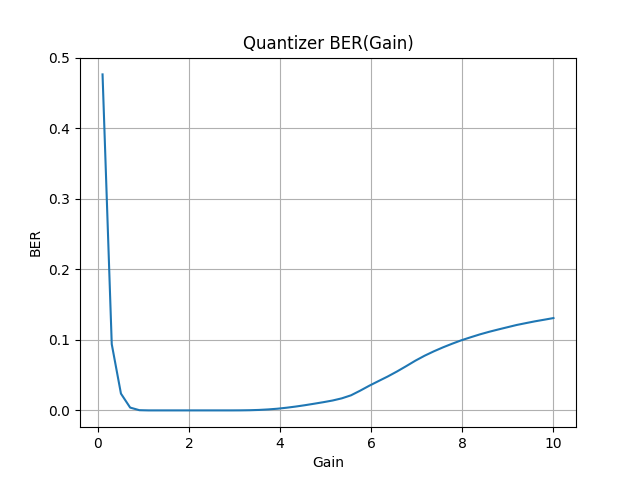
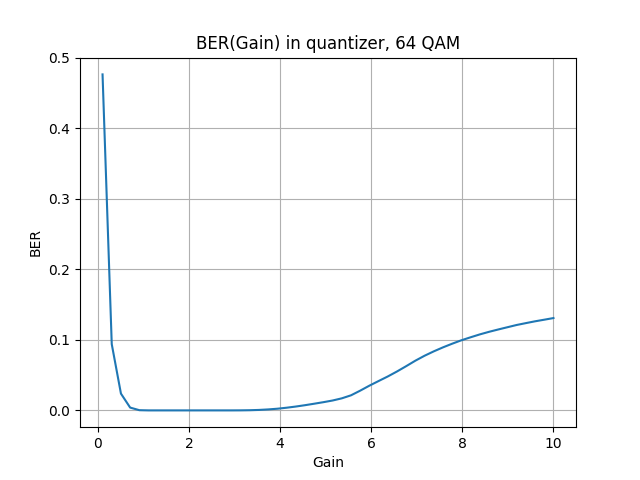
Changed the ADC and the DAC, chose the gain

Changed region(s): [[0.3125, 0.0625, 0.7188, 0.125]]

diff --git a/main.py b/main.py
@@ -4,6 +4,7 @@ import commpy.modulation as mod
 from scipy import signal as sig
 from commpy.channels import awgn
 import channel_funcs as cf
+from tqdm import tqdm
 
 
 def time_syncronization(base_signal, delayed_signal):
@@ -36,6 +37,62 @@ def constellation_normalization(signal, mod_order):
 def normalize_energy(s):
     return s / np.sqrt(np.sum(np.abs(s)**2))
 
+def compare_2_signals(signal_1, signal_2, title):
+    mid = len(signal_1) // 2
+    plt.figure(100)
+    plt.stem(signal_1.real[mid : mid + 100], linefmt='r-', label = 'Initial, real part')
+    plt.stem(signal_2.real[mid : mid + 100], linefmt='g-', label = 'Processed, real part')
+    plt.legend()
+    plt.title(title)
+    plt.grid()
+    plt.show()
+
+    plt.figure(101)
+    plt.stem(signal_1.imag[mid : mid + 100], linefmt='r-', label = 'Initial, imaginary part')
+    plt.stem(signal_2.imag[mid : mid + 100], linefmt='g-', label = 'Processed, imaginary part')
+    plt.legend()
+    plt.title(title)
+    plt.grid()
+    plt.show()
+
+def pulse_shaping_check(shaped_signal, up_signal, ROLLOFF, FILTER_SPAN, SPS, FS, TS):
+    shaped_back_signal = cf.pulse_shaping(
+        shaped_signal,
+        rolloff=ROLLOFF,
+        filter_span=FILTER_SPAN,
+        sps=SPS,
+        Fs=FS * SPS,
+        Ts=TS,
+        normaliztion="L2",
+        plt_en = 1
+    )
+    recovered = time_syncronization(up_signal, shaped_back_signal) 
+    downsampled = cf.downsample(recovered, SPS)
+    recovered = cf.upsample(downsampled, SPS)
+    shaped_energy, recovered_energy = np.sum(np.abs(shaped_signal)** 2), np.sum(np.abs(recovered) ** 2)
+    print(f'Signals energies: {shaped_energy}; {recovered_energy}')
+    nmse = nmse_calc(up_signal, recovered) 
+    
+    print(f'NMSE = {nmse} dB')
+    plt.figure(100)
+    plt.plot(up_signal.real[:100], color  = 'red', label = 'Up signal real part')
+    plt.plot(recovered.real[:100], color = 'green', label = 'Shaped back signal real part')
+    plt.legend()
+    plt.grid()
+    plt.show()
+
+    plt.figure(101)
+    plt.plot(up_signal.imag[:100], color  = 'red', label = 'Up signal imag part')
+    plt.plot(recovered.imag[:100], color = 'green', label = 'Shaped back signal imag part')
+    plt.legend()
+    plt.grid()
+    plt.show()
+
+def recover_signal(initial_signal, processed_signal, SPS):
+    recovered = time_syncronization(initial_signal, processed_signal)
+    downsampled = cf.downsample(recovered, SPS)
+    recovered = cf.upsample(downsampled, SPS)
+    return recovered, downsampled
 
 
 def main():
@@ -78,7 +135,7 @@ def main():
 
 
 
-    ######### 2 Upsampling
+    ######### 2 Upsampling to 4 SPS
     up_signal = cf.upsample(symbol_signal, SPS)
     ### Upsampled signal spectrum check
     cf.spectrum_plot(up_signal, Fs = SPS * FS, title = 'Signal spectrum, 4 SPS', plt_en = 1)
@@ -103,84 +160,68 @@ def main():
     ###
 
     ### TX Pulse shaping block check, NMSE = -67 dB
-    '''shaped_back_signal = cf.pulse_shaping(
-        shaped_signal,
-        rolloff=ROLLOFF,
-        filter_span=FILTER_SPAN,
-        sps=SPS,
-        Fs=FS * SPS,
-        Ts=TS,
-        normaliztion="L2",
-        plt_en = 1
-    )
-    recovered = time_syncronization(up_signal, shaped_back_signal) 
-    downsampled = cf.downsample(recovered, SPS)
-    recovered = cf.upsample(downsampled, SPS)
-    nmse = nmse_calc(up_signal, recovered) 
-    
-    print(f'NMSE = {nmse} dB')
-    plt.figure(100)
-    plt.plot(up_signal.real[:100], color  = 'red', label = 'Up signal real part')
-    plt.plot(recovered.real[:100], color = 'green', label = 'Shaped back signal real part')
-    plt.legend()
-    plt.grid()
-    plt.show()
-
-    plt.figure(101)
-    plt.plot(up_signal.imag[:100], color  = 'red', label = 'Up signal imag part')
-    plt.plot(recovered.imag[:100], color = 'green', label = 'Shaped back signal imag part')
-    plt.legend()
-    plt.grid()
-    plt.show()'''
+    pulse_shaping_check(shaped_signal, up_signal, ROLLOFF, FILTER_SPAN, SPS, FS, TS)
     ###
 
 
 
     ######### DAC with the distortions
-    gains = np.linspace(0.1, 10, 50)
-    bers = np.zeros_like(gains)
+    #gains_dac = np.linspace(0.1, 10, 50)
+    gains_dac = np.arange(2.928, 2.93, 0.01)
+    gains_adc = np.arange(14,15,1)
+    bers = np.zeros_like(gains_adc)
+    nmse_final_arr = np.zeros_like(gains_adc)
     shaped_signal_pure = shaped_signal.copy()
-    for i in range(len(gains)):
+    
+    for i in tqdm(range((len(gains_adc)))):
         #shaped_signal = cf.quantizer(shaped_signal, resolution = 5, gain = gains[i]) ### Add the quantizer
         #shaped_upsampled = cf.upsample(shaped_signal, sps = 10)
-        current_shaped = cf.quantizer(shaped_signal_pure, resolution = 5, gain = gains[i]) 
-    
+        current_shaped = cf.quantizer(shaped_signal_pure, resolution = 5, gain = 2.928) 
+        #current_shaped = shaped_signal_pure
         if np.sum(np.abs(current_shaped)) == 0:
             bers[i] = 0.5
             continue
             
-        shaped_upsampled = cf.upsample(current_shaped, sps = 10)
-
-
+        SPS_2 = 10
+        ### Upsampling to 40 SPS
+        shaped_upsampled = cf.upsample(current_shaped, sps = SPS_2)
+        ###
         ### Shaped signal spectrum check
-        SPS_2 = 40
-        cf.spectrum_plot(shaped_upsampled, Fs = SPS_2 * FS, title = 'Spectrum after the pulse shaping and upsampling, 40 SPS', plt_en = 0)
+        cf.spectrum_plot(shaped_upsampled, Fs = SPS_2* SPS * FS, title = 'Spectrum after the pulse shaping and upsampling, 40 SPS', plt_en = 0)
         ###
         
         ### Add a LPF to shaped_upsampled
-        #shaped_upsampled_filtered = cf.apply_lowpass_filter(shaped_upsampled, FS/2*(1 + ROLLOFF) * 1.5, FS/2*(1 + ROLLOFF) * 2, FS * SPS * 10, 60)
-        shaped_upsampled_filtered = cf.apply_fixed_lpf(shaped_upsampled, FS / 2 * (1 + ROLLOFF) * 1.5, FS * SPS_2)
+        shaped_upsampled_filtered = cf.apply_fixed_lpf(shaped_upsampled, FS / 2 * (1 + ROLLOFF) * 1.5, FS * SPS_2 * SPS)
         #shaped_upsampled_filtered = shaped_upsampled
         ### Shaped upsampled and filtered through LPF signal spectrum check
-        cf.spectrum_plot(shaped_upsampled_filtered, Fs = SPS_2 * FS, title = 'Spectrum after the pulse shaping and upsampling to 40 SPS, then adding a LPF', plt_en = 0)
+        cf.spectrum_plot(shaped_upsampled_filtered, Fs = SPS_2 * SPS * FS, title = 'Spectrum after the pulse shaping and upsampling to 40 SPS, then adding a LPF', plt_en = 0)
         ###
 
 
 
 
         ######## Upconversion
-        passband_signal = cf.upconversion(shaped_upsampled_filtered, Fc = FS * 10, Fs = FS * SPS_2, plt_en = 0)
-
+        passband_signal = cf.upconversion(shaped_upsampled_filtered, Fc = FS * SPS_2, Fs = FS * SPS_2 * SPS, plt_en = 0)
         ######## Downconversion
-        baseband_signal = cf.downconversion(passband_signal, Fc = FS * 10, Fs = FS * SPS_2, plt_en = 0)
+        baseband_signal = cf.downconversion(passband_signal, Fc = FS * SPS_2, Fs = FS * SPS_2 * SPS, plt_en = 0)
 
-        ######### ADC w/o distortions
+
+
+
+        ######### ADC with distortions
         ### Correlation between the shaped_upsampled and shaped_upsampled_filtered
-        recovered = time_syncronization(shaped_upsampled, shaped_upsampled_filtered)
-        downsampled = cf.downsample(recovered, 10)
-        recovered = cf.upsample(downsampled, 10)
+        after_lpf = time_syncronization(shaped_upsampled, baseband_signal)
+        downsampled = cf.downsample(after_lpf, SPS_2)
+        recovered = cf.upsample(downsampled, SPS_2)
 
-        ### Shaped signal and signal after the LPF normalization
+        ### ADC quantizer
+        adc_quantized = cf.quantizer(after_lpf, resolution = 8, gain = gains_adc[i])
+        if np.sum(np.abs(adc_quantized)) == 0:
+            bers[i] = 0.5
+            continue
+        downsampled = cf.downsample(adc_quantized, SPS_2)
+
+        ### Shaped upsampled to 40 SPS signal and signal after the LPF normalization
         shaped_up_energy, recovered_energy = np.sum(np.abs(shaped_upsampled)** 2), np.sum(np.abs(recovered) ** 2)
         print(f'Signals energies: {shaped_up_energy}; {recovered_energy}')
         shaped_upsampled, recovered = normalize_energy(shaped_upsampled), normalize_energy(recovered)
@@ -192,28 +233,15 @@ def main():
         print(f'NMSE = {nmse} dB')
         print(f'NMSE absolute = {nmse_abs}')
 
-        '''mid = len(recovered) // 2
-        plt.figure(100)
-        plt.stem(shaped_upsampled.real[mid : mid + 100], linefmt='r-', label = 'Upsampled signal before the LPF real part')
-        plt.stem(recovered.real[mid : mid + 100],linefmt='g-', label = 'Upsampled signal after the LPF real part')
-        plt.legend()
-        plt.title('Signals 10 SPS')
-        plt.grid()
-        plt.show()
-
-        plt.figure(101)
-        plt.stem(shaped_upsampled.imag[mid : mid + 100], linefmt='r-', label = 'Upsampled signal before the LPF imag part')
-        plt.stem(recovered.imag[mid : mid + 100], linefmt='g-', label = 'Upsampled signal after the LPF imag part')
-        plt.legend()
-        plt.title('Signals 10 SPS')
-        plt.grid()
-        plt.show()'''
+        ### 
+        title = 'Shaped, upsampled to 40 SPS, before LPF signal; Recovered signal on 40 SPS after LPF with time syncro'
+        compare_2_signals(shaped_upsampled, recovered, title)
         ###
+        #########
 
 
 
-
-        ######## Matched filter to the downsampled signal
+        ######## Matched filter to the downsampled to 4 SPS signal
         downsampled_shaped = cf.pulse_shaping(downsampled, ROLLOFF, FILTER_SPAN, SPS, TS, FS * SPS, plt_en = 0)
         
         ### Correlation between the up_signal and downsampled matched filtered
@@ -224,22 +252,8 @@ def main():
         recovered_energy, up_signal_energy = np.sum(np.abs(recovered)** 2), np.sum(np.abs(up_signal)** 2)
         print(f'Signals energies: {recovered_energy}; {up_signal_energy}')
 
-        '''mid = len(recovered) // 2
-        plt.figure(100)
-        plt.stem(up_signal.real[mid : mid + 100], linefmt='r-', label = 'Signal on 4 SPS after initial shaping real part')
-        plt.stem(recovered.real[mid : mid + 100], linefmt='g-', label = 'Signal on 4 SPS after matched filtering real part')
-        plt.legend()
-        plt.title('Signals on 4 SPS')
-        plt.grid()
-        plt.show()
-
-        plt.figure(101)
-        plt.stem(up_signal.imag[mid : mid + 100], linefmt='r-', label = 'Signal on 4 SPS after initial shaping imag part')
-        plt.stem(recovered.imag[mid : mid + 100], linefmt='g-', label = 'Signal on 4 SPS after matched filtering imag part')
-        plt.legend()
-        plt.title('Signals on 4 SPS')
-        plt.grid()
-        plt.show()'''
+        title = 'Initial upsampled on 4 SPS signal; Recovered signal after the matched filtering on 4 SPS with time syncro'
+        compare_2_signals(up_signal, recovered, title)
 
         nmse = nmse_calc(up_signal, recovered)
         print(f'NMSE = {nmse} dB')
@@ -251,6 +265,7 @@ def main():
         final_symbols = constellation_normalization(final_symbols, MOD_ORDER)
         final_symbols_rms, symbol_signal_rms =  rms_calc(final_symbols), rms_calc(symbol_signal) 
         nmse = nmse_calc(symbol_signal, final_symbols)
+        nmse_final_arr[i] = nmse
         print(f'NMSE = {nmse}')
         
 
@@ -264,12 +279,21 @@ def main():
     
     ### Ber (gain)
     plt.figure(1)
-    plt.plot(gains, bers)
+    plt.plot(gains_adc, bers)
     plt.ylabel('BER')
     plt.xlabel('Gain')
-    plt.title('Quantizer BER(Gain)')
+    plt.title(f'BER(Gain) in ADC, {MOD_ORDER} QAM')
     plt.grid()
-    plt.savefig('quantizer_ber_gain.png')
+    #plt.savefig('adc_ber_gain.png')
+    plt.show()
+
+    plt.figure(2)
+    plt.plot(gains_adc, nmse_final_arr)
+    plt.ylabel('Final NMSE between the symbols')
+    plt.xlabel('Gain')
+    plt.title(f'NMSE(Gain) in ADC, {MOD_ORDER} QAM')
+    plt.grid()
+    #plt.savefig('adc_nmse_gain.png')
     plt.show()
     ###
     cf.spectrum_plot(shaped_signal, FS, title="Original baseband signal spectrum")

diff --git a/channel_funcs.py b/channel_funcs.py
@@ -29,6 +29,7 @@ def rc_filter(signal, filter_span, sps, Fs, rolloff, Ts, plt_en = 1, normalizati
     
 def apply_fixed_lpf(signal, cutoff_hz, fs, N=401, plt_en = 0):
     taps = sig.firwin(N, cutoff_hz, window=('kaiser', 14), fs=fs)
+    taps = taps / np.sqrt(np.sum(np.abs(taps)**2))
     if plt_en:
         spectrum_plot(taps, fs, title = 'LPF frequency characteristics', plt_en = plt_en)
     return np.convolve(signal, taps, mode="full")
@@ -139,16 +140,11 @@ def ADC1(signal: np.ndarray, adc_bits: int, dac_bits: int):
     return signal * scaling_factor_adc, scaling_factor_adc
 
 
-def ADC(signal: np.ndarray, adc_bits: int, dac_bits: int):
-    scaling_factor_adc = 2 ** (adc_bits - dac_bits)
-    scaled_signal = signal * scaling_factor_adc
-
-    quantized_signal = np.round(scaled_signal)
-
-    limit = 2 ** (adc_bits - 1)
-    final_signal = np.clip(quantized_signal, -limit, limit - 1)
-
-    return final_signal, scaling_factor_adc
+def ADC(signal: np.ndarray, resolution: int, gain: float):
+    left_border, right_border = int(-(2**resolution) / 2), int(2**resolution / 2 - 1)
+    scaled_signal = signal * gain
+    i_quantized, q_quantized = np.clip(np.round((scaled_signal.real)).astype(np.int32), left_border, right_border), np.clip(np.round((scaled_signal.imag)).astype(np.int32), left_border, right_border)
+    return i_quantized + 1j * q_quantized
 
 
 def upconversion(baseband_signal: np.ndarray, Fc: float, Fs: float, plt_en : bool = 1) -> np.ndarray:
